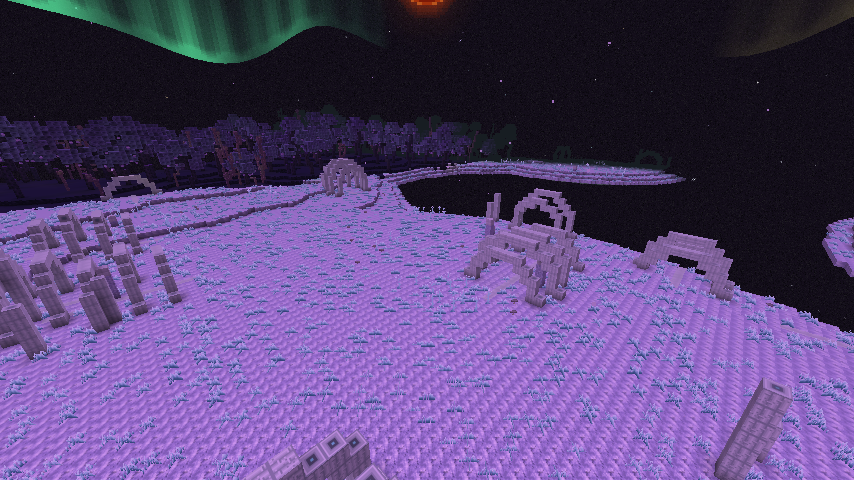
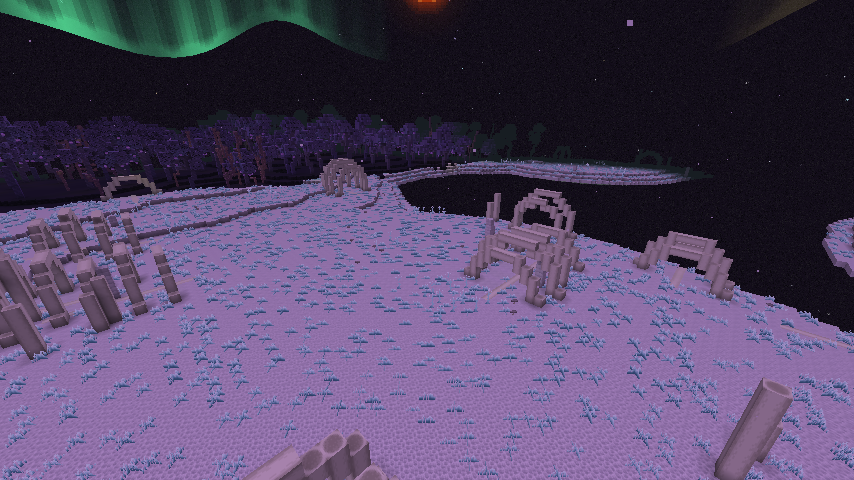
A comet you can see at night; Wyrm sequence in view; re-film [trailer]
- Live Comet: its ice shines by its own light (the glow layer carries the
  ice's own pattern, dimmed), it's drawn larger, and its tail is longer and
  thicker - in the first trailer it was a dark speck against the sky.
- Trailer: the comet passes closer; on cue the Spire Wyrm circles the top of
  its spire for the flight shots; a new viewpoint at the spire's highest bell,
  whose ringing stuns the Wyrm in view; no autosaves while filming.
- README pictures refreshed from the latest in-game screenshots.

Claude-Session: https://claude.ai/code/session_0155WfD2TeFRTvCBedvK2Yiv

diff --git a/tools/mobs/make_mobs.py b/tools/mobs/make_mobs.py
@@ -1043,6 +1043,20 @@ def comet_ice(face, px, py, fw, fh, rnd):
     return clamp(i, COMET_ICE)
 
 
+def comet_ice_glow(face, px, py, fw, fh, rnd):
+    """The ice shines: a live comet is lit by its own cold light, so it shows as a bright head against
+    the dark sky (the rock between stays dark)."""
+    c = comet_ice(face, px, py, fw, fh, rnd)      # its own pattern, dimmer: on top of the lit ice it brightens,
+    return (c[0] * 6 // 10, c[1] * 6 // 10, c[2] * 6 // 10, 255)   # and at night it is the ice
+
+
+def comet_rock_glow(face, px, py, fw, fh, rnd):
+    t = n()
+    if _ice_crust(face, px, py, fw, fh, t):
+        return comet_ice_glow(face, px, py, fw, fh, rnd)
+    return comet_crack_glow(face, px, py, fw, fh, rnd)
+
+
 def comet_crack_glow(face, px, py, fw, fh, rnd):
     t = n()
     if not _ice_crust(face, px, py, fw, fh, t) and 0.41 < t < 0.43 and face != "up":
@@ -1052,14 +1066,14 @@ def comet_crack_glow(face, px, py, fw, fh, rnd):
 
 COMET = Mob("live_comet", (64, 64), [
     Part("comet", (0, 18, 0), [
-        B(-4, -4, -4, 8, 8, 8, comet_rock, comet_crack_glow),       # the rock
-        B(-5, -2, -3, 1, 5, 5, comet_rock, comet_crack_glow),       # its lumps
-        B(4, -1, -2, 1, 4, 4, comet_rock),
-        B(-3, 4, -3, 5, 1, 5, comet_rock),
-        B(-2, -1, 4, 5, 4, 1, comet_rock, comet_crack_glow),
-        B(-3, -5, -3, 5, 1, 4, comet_ice),                          # the ice: a crust on top
-        B(-6, -5, -4, 3, 3, 3, comet_ice),                          # and chunks jutting out
-        B(1, -7, -1, 2, 2, 2, comet_ice),
+        B(-4, -4, -4, 8, 8, 8, comet_rock, comet_rock_glow),        # the rock
+        B(-5, -2, -3, 1, 5, 5, comet_rock, comet_rock_glow),        # its lumps
+        B(4, -1, -2, 1, 4, 4, comet_rock, comet_rock_glow),
+        B(-3, 4, -3, 5, 1, 5, comet_rock, comet_rock_glow),
+        B(-2, -1, 4, 5, 4, 1, comet_rock, comet_rock_glow),
+        B(-3, -5, -3, 5, 1, 4, comet_ice, comet_ice_glow),          # the ice: a crust on top
+        B(-6, -5, -4, 3, 3, 3, comet_ice, comet_ice_glow),          # and chunks jutting out
+        B(1, -7, -1, 2, 2, 2, comet_ice, comet_ice_glow),
     ]),
 ], egg=(COMET_ROCK[2], COMET_ICE[2]))
 

diff --git a/src/main/java/com/ggrantrichards/astralend/entity/SpireWyrm.java b/src/main/java/com/ggrantrichards/astralend/entity/SpireWyrm.java
@@ -80,6 +80,7 @@ public class SpireWyrm extends Monster {
     private @Nullable Vec3 stunAt;
     private @Nullable Vec3 lungeAt;
     private final List<BlockPos> bells = new ArrayList<>();
+    private int circleTicks;   // for the trailer: circling the top of its spire, in view
 
     public SpireWyrm(EntityType<? extends SpireWyrm> type, Level level) {
         super(type, level);
@@ -308,6 +309,12 @@ public class SpireWyrm extends Monster {
             default -> {
                 goal = this.coilPoint();
                 speed = target != null ? 0.6 : 0.35;
+                if (target == null && this.circleTicks > 0) {
+                    this.circleTicks--;
+                    this.angle += 0.05;
+                    goal = this.home.add(Math.cos(this.angle) * 15.0, 5.0 + Math.sin(this.angle * 2.0) * 2.0, Math.sin(this.angle) * 15.0);
+                    speed = 0.55;
+                }
                 if (target != null && this.phaseTicks > 140 + this.random.nextInt(80)) {
                     if (this.random.nextBoolean()) {
                         this.lungeAt = target.getEyePosition().add(target.getDeltaMovement().scale(10.0))
@@ -370,11 +377,16 @@ public class SpireWyrm extends Monster {
         this.playSound(SoundEvents.ENDER_DRAGON_SHOOT, 2.0F, 0.8F);
     }
 
-    public void stunAtNearestBellOnCue(ServerLevel level) {
+    public void circleNestOnCue(int ticks) {
+        this.circleTicks = ticks;
+    }
+
+    // The bell nearest `near` rings, and the Wyrm is stunned onto its ledge.
+    public void stunAtBellOnCue(ServerLevel level, BlockPos near) {
         this.findBells(level);
         BlockPos best = null;
         for (BlockPos p : this.bells) {
-            if (best == null || p.distSqr(this.blockPosition()) < best.distSqr(this.blockPosition())) {
+            if (best == null || p.distSqr(near) < best.distSqr(near)) {
                 best = p;
             }
         }

diff --git a/src/main/java/com/ggrantrichards/astralend/client/ClientTrailer.java b/src/main/java/com/ggrantrichards/astralend/client/ClientTrailer.java
@@ -106,6 +106,8 @@ public final class ClientTrailer {
                 }
                 ClientScreenshots.load(minecraft);
                 loadScenes(minecraft);
+                // no autosaves while filming: their "Saving world" note would be in the picture
+                server.execute(() -> server.getAllLevels().forEach(level -> level.noSave = true));
                 new File(minecraft.gameDirectory, "screenshots/trailer").mkdirs();
                 hideHud(minecraft);
                 next(minecraft, server);
@@ -396,12 +398,13 @@ public final class ClientTrailer {
         Vec3 right = new Vec3(-forward.z, 0, forward.x);   // facing south (+z), your right is -x
         server.execute(() -> {
             ServerLevel end = server.getLevel(Level.END);
-            Vec3 ahead = eye0.add(forward.scale(44.0));
+            Vec3 ahead = eye0.add(forward.scale(34.0));
             int ground = end.getHeight(Heightmap.Types.MOTION_BLOCKING_NO_LEAVES, Mth.floor(ahead.x), Mth.floor(ahead.z));
             boolean land = ground > end.getMinY() + 8;
             Vec3 stop = new Vec3(Mth.floor(ahead.x) + 0.5, land ? ground - 1 : eye0.y - 14, Mth.floor(ahead.z) + 0.5);
-            Vec3 start = stop.add(forward.scale(60.0)).add(right.scale(-70.0)).add(0, 80.0, 0);
-            Vec3 control = start.add(stop).scale(0.5).add(right.scale(-12.0)).add(0, 26.0, 0);
+            // in close enough to see: across the sky from the far left, passing over and landing ahead
+            Vec3 start = stop.add(forward.scale(30.0)).add(right.scale(-48.0)).add(0, 52.0, 0);
+            Vec3 control = start.add(stop).scale(0.5).add(right.scale(-6.0)).add(forward.scale(-10.0)).add(0, 14.0, 0);
             comet = new Vec3[] {start, control, stop};
             LiveComet c = ModEntities.LIVE_COMET.get().create(end, EntitySpawnReason.EVENT);
             if (c != null) {

diff --git a/src/main/java/com/ggrantrichards/astralend/dev/WorldgenSurvey.java b/src/main/java/com/ggrantrichards/astralend/dev/WorldgenSurvey.java
@@ -575,6 +575,23 @@ public final class WorldgenSurvey {
         // Up the shaft from 30 blocks below the nest, and level with it from 22 blocks out.
         lines.add(String.format(java.util.Locale.ROOT, "wyrm_shaft %.1f %.1f %.1f -45 -60", nest.x - 2.0, nest.y - 30.0, nest.z - 2.0));
         lines.add(String.format(java.util.Locale.ROOT, "wyrm_flight %.1f %.1f %.1f -45 -8", nest.x - 16.0, nest.y + 4.0, nest.z - 16.0));
+        // The bell nearest the top, seen from just outside the spire's wall, level with it.
+        BlockPos bell = null;
+        for (BlockPos p : BlockPos.betweenClosed(BlockPos.containing(nest).offset(-18, -40, -18), BlockPos.containing(nest).offset(18, 4, 18))) {
+            if (end.getBlockState(p).is(Blocks.BELL) && (bell == null || p.getY() > bell.getY())) {
+                bell = p.immutable();
+            }
+        }
+        if (bell != null) {
+            net.minecraft.world.phys.Vec3 at = net.minecraft.world.phys.Vec3.atCenterOf(bell);
+            net.minecraft.world.phys.Vec3 out = new net.minecraft.world.phys.Vec3(at.x - nest.x, 0, at.z - nest.z).normalize();
+            net.minecraft.world.phys.Vec3 cam = at.add(out.scale(9.0)).add(0, 2.0, 0);
+            net.minecraft.world.phys.Vec3 d = at.subtract(cam);
+            double yaw = Math.toDegrees(Math.atan2(-d.x, d.z));
+            double pitch = -Math.toDegrees(Math.atan2(d.y, Math.sqrt(d.x * d.x + d.z * d.z)));
+            lines.add(String.format(java.util.Locale.ROOT, "wyrm_bell %.1f %.1f %.1f %.1f %.1f", cam.x, cam.y - 1.62, cam.z, yaw, pitch));
+            log("resonant_spire: the highest bell at " + bell.toShortString());
+        }
     }
 
     private static void structureShot(List<String> lines, Map<String, BlockPos> structures, String name, double distance,

diff --git a/src/main/java/com/ggrantrichards/astralend/comet/LiveComet.java b/src/main/java/com/ggrantrichards/astralend/comet/LiveComet.java
@@ -160,9 +160,9 @@ public class LiveComet extends Mob {
         Vec3 back = this.heading().scale(-1.0);
         Vec3 head = this.position().add(0, this.getBbHeight() * 0.5, 0);
         RandomSource r = this.random;
-        for (int i = 0; i < 10; i++) {
-            double along = r.nextDouble() * r.nextDouble() * 9.0;          // most near the head
-            double spread = 0.5 + along * 0.18;                             // the tail widens behind
+        for (int i = 0; i < 22; i++) {
+            double along = r.nextDouble() * r.nextDouble() * 16.0;         // most near the head
+            double spread = 0.7 + along * 0.2;                              // the tail widens behind
             Vec3 p = head.add(back.scale(1.2 + along)).add((r.nextDouble() - 0.5) * spread, (r.nextDouble() - 0.5) * spread,
                 (r.nextDouble() - 0.5) * spread);
             Vec3 v = back.scale(0.03 + r.nextDouble() * 0.07);

diff --git a/src/main/java/com/ggrantrichards/astralend/client/ClientScreenshots.java b/src/main/java/com/ggrantrichards/astralend/client/ClientScreenshots.java
@@ -215,9 +215,13 @@ public final class ClientScreenshots {
                     net.minecraft.world.phys.Vec3 camera = net.minecraft.world.phys.Vec3.atCenterOf(here);
                     wyrm.breatheAtOnCue(end, camera.add(wyrm.position().subtract(camera).normalize().scale(5.0)));
                 }
+                case "wyrm_circle" -> {
+                    wyrm.wake(end);
+                    wyrm.circleNestOnCue(400);
+                }
                 case "wyrm_stun" -> {
                     wyrm.wake(end);
-                    wyrm.stunAtNearestBellOnCue(end);
+                    wyrm.stunAtBellOnCue(end, here);
                 }
                 default -> LOGGER.error("[AstralEnd screenshots] unknown event {}", style);
             }

diff --git a/src/main/java/com/ggrantrichards/astralend/client/entity/LiveCometRenderer.java b/src/main/java/com/ggrantrichards/astralend/client/entity/LiveCometRenderer.java
@@ -14,7 +14,7 @@ import net.minecraft.util.Mth;
 
 public class LiveCometRenderer extends MobRenderer<LiveComet, LiveCometRenderer.State, LiveCometRenderer.Model> {
     private static final Identifier TEXTURE = ModModelLayers.texture("live_comet");
-    private static final float SCALE = 3.0F;
+    private static final float SCALE = 4.0F;
 
     public LiveCometRenderer(EntityRendererProvider.Context context) {
         super(context, new Model(context.bakeLayer(ModModelLayers.LIVE_COMET)), 0.0F);
